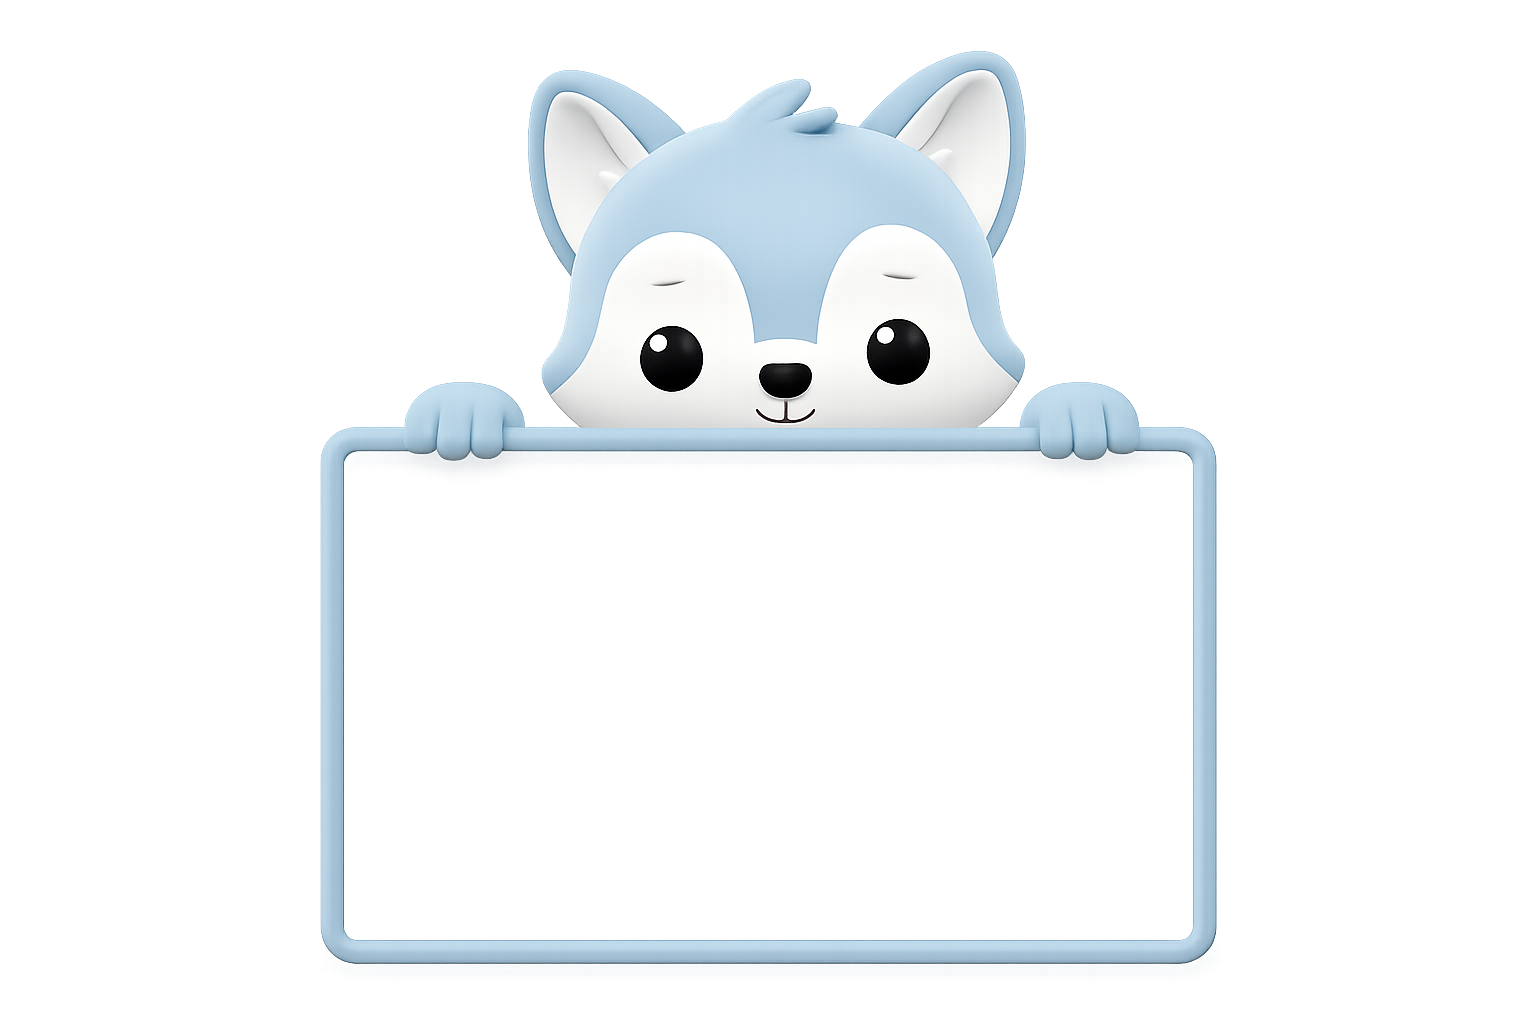
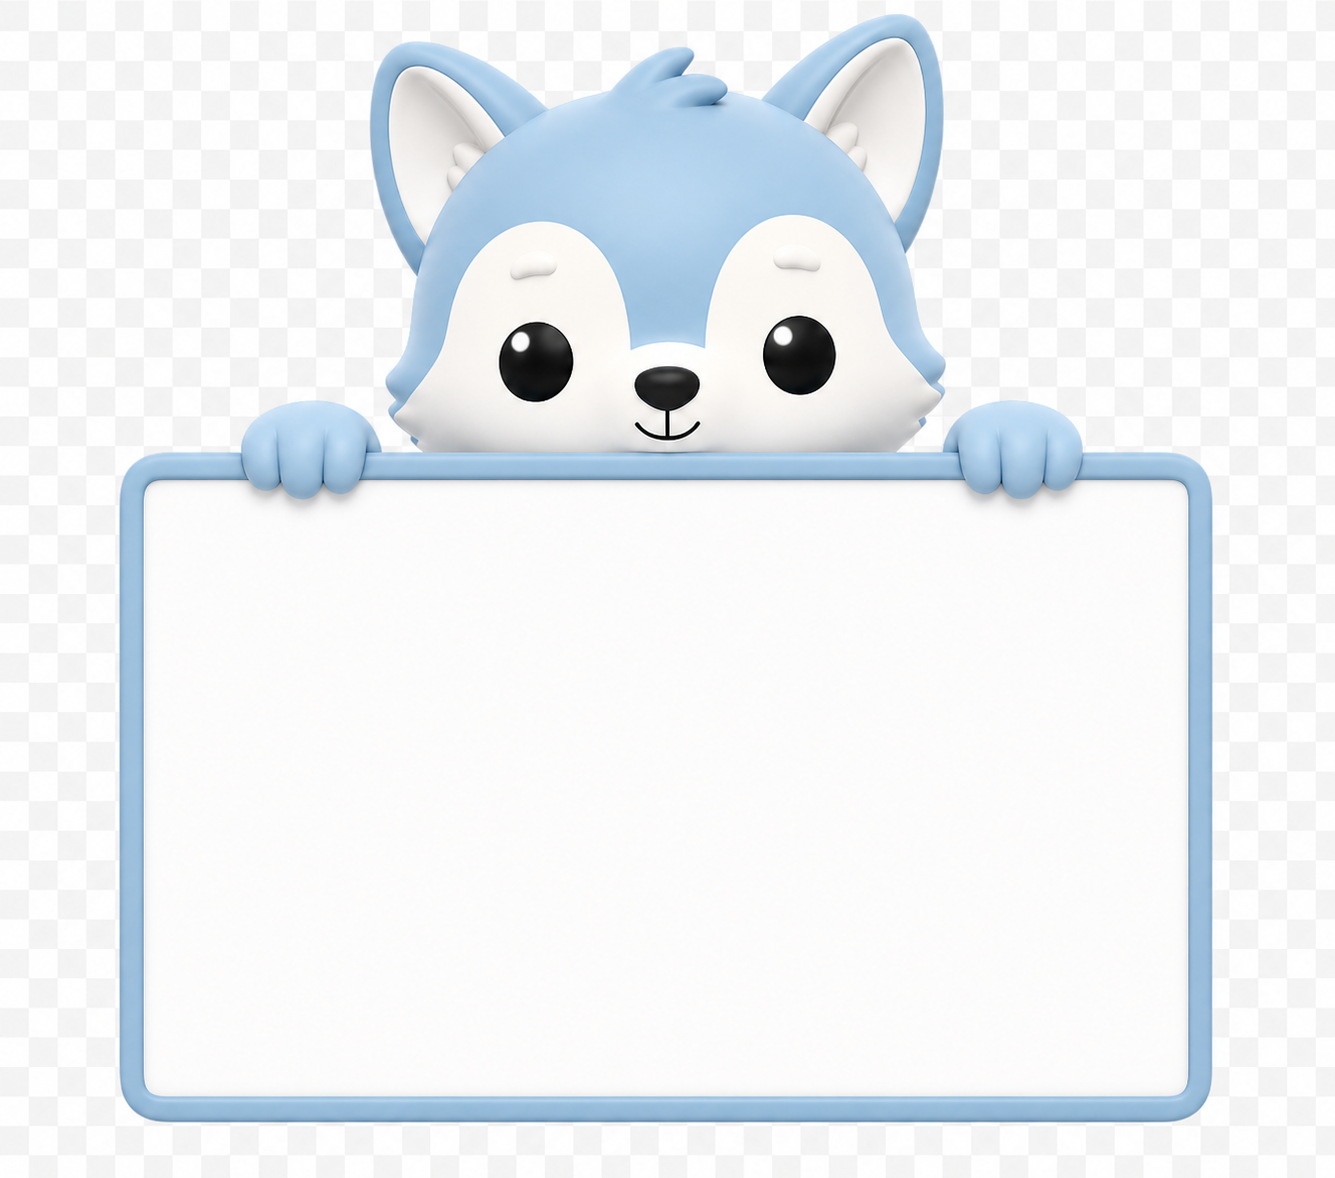
transparent

Changed region(s): [[0.0921, 0.0, 0.9213, 0.9688]]

diff --git a/app/landing/LandingPage.tsx b/app/landing/LandingPage.tsx
@@ -526,16 +526,19 @@ export default function LandingPage() {
       ═══════════════════════════════════════ */}
       <div style={{
         position: "relative", overflow: "hidden",
-        background: "linear-gradient(135deg, #060d1f 0%, #0d1533 100%)",
+        background: "#0a0f1e",
         padding: "80px 40px",
         display: "flex", alignItems: "center", justifyContent: "center", gap: "6vw",
         flexWrap: "wrap",
       }}>
-        {/* Ambient glow */}
-        <div style={{ pointerEvents: "none", position: "absolute", inset: 0 }}>
-          <div style={{ position: "absolute", top: "-20%", left: "-5%", width: 500, height: 500, borderRadius: "50%", filter: "blur(100px)", background: "radial-gradient(circle,rgba(59,130,246,0.18) 0%,transparent 70%)" }} />
-          <div style={{ position: "absolute", bottom: "-20%", right: "-5%", width: 400, height: 400, borderRadius: "50%", filter: "blur(100px)", background: "radial-gradient(circle,rgba(79,70,229,0.2) 0%,transparent 70%)" }} />
-        </div>
+        {/* Cloud video background */}
+        <video
+          autoPlay muted loop playsInline
+          style={{ position: "absolute", inset: 0, width: "100%", height: "100%", objectFit: "cover", opacity: 0.55, zIndex: 0 }}
+          src="/hero-bg.mp4"
+        />
+        {/* Dark overlay so text stays readable */}
+        <div style={{ position: "absolute", inset: 0, zIndex: 0, background: "linear-gradient(to bottom, rgba(10,15,30,0.45) 0%, rgba(10,15,30,0.6) 100%)" }} />
 
         {/* Wolf with whiteboard */}
         <motion.div
@@ -544,23 +547,23 @@ export default function LandingPage() {
           style={{ width: "min(460px, 42vw)", position: "relative", flexShrink: 0, zIndex: 1 }}
         >
           <img src="/husky.png.png" alt="OutreachAI Guide" style={{ width: "100%", height: "auto", display: "block" }} />
+          {/* No background — text sits directly on the white board area of the image */}
           <div style={{
             position: "absolute", top: "62%", left: "50%", transform: "translate(-50%, -50%)",
-            width: "68%", background: "#ffffff", borderRadius: 8,
-            padding: "10px 8px 12px",
+            width: "68%",
             textAlign: "center", pointerEvents: "auto",
             display: "flex", flexDirection: "column", alignItems: "center", gap: 3,
           }}>
-            <p style={{ fontSize: "clamp(8px, 1.1vw, 14px)", fontWeight: 900, color: "#0f172a", lineHeight: 1.1, margin: 0 }}>Stop guessing.</p>
-            <p style={{ fontSize: "clamp(8px, 1.1vw, 14px)", fontWeight: 900, color: "#3b82f6", lineHeight: 1.1, margin: 0 }}>Start connecting.</p>
-            <p style={{ fontSize: "clamp(6px, 0.58vw, 8px)", color: "#475569", lineHeight: 1.3, margin: 0, maxWidth: "88%", fontWeight: 500 }}>
+            <p style={{ fontSize: "clamp(8.6px, 1.19vw, 15.1px)", fontWeight: 900, color: "#0f172a", lineHeight: 1.1, margin: 0 }}>Stop guessing.</p>
+            <p style={{ fontSize: "clamp(8.6px, 1.19vw, 15.1px)", fontWeight: 900, color: "#3b82f6", lineHeight: 1.1, margin: 0 }}>Start connecting.</p>
+            <p style={{ fontSize: "clamp(6.5px, 0.63vw, 8.6px)", color: "#475569", lineHeight: 1.3, margin: 0, maxWidth: "88%", fontWeight: 500 }}>
               AI-powered matching for high-impact positions.
             </p>
             <Link href="/signup" style={{
               display: "inline-flex", alignItems: "center", gap: 3,
               background: "linear-gradient(to right,#3b82f6,#4f46e5)", color: "#fff",
               padding: "4px 9px", borderRadius: 4, marginTop: 2,
-              fontSize: "clamp(5.5px, 0.58vw, 7.5px)", fontWeight: 800, textDecoration: "none",
+              fontSize: "clamp(5.9px, 0.63vw, 8.1px)", fontWeight: 800, textDecoration: "none",
               textTransform: "uppercase", letterSpacing: "0.02em", boxShadow: "0 3px 10px rgba(59,130,246,0.35)",
             }}>
               Create Account <ArrowRight size={7} />